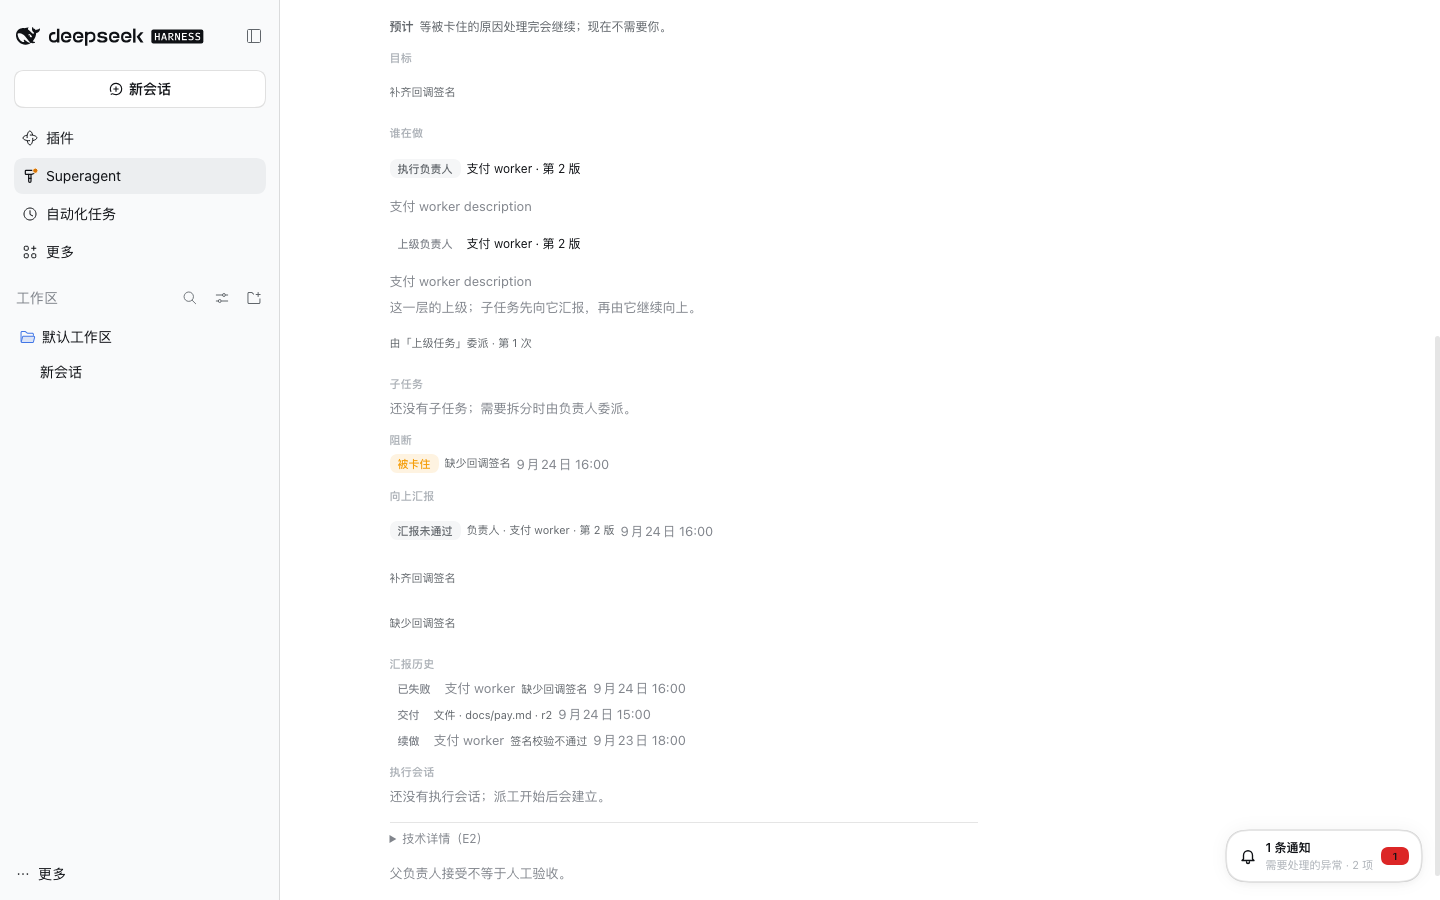
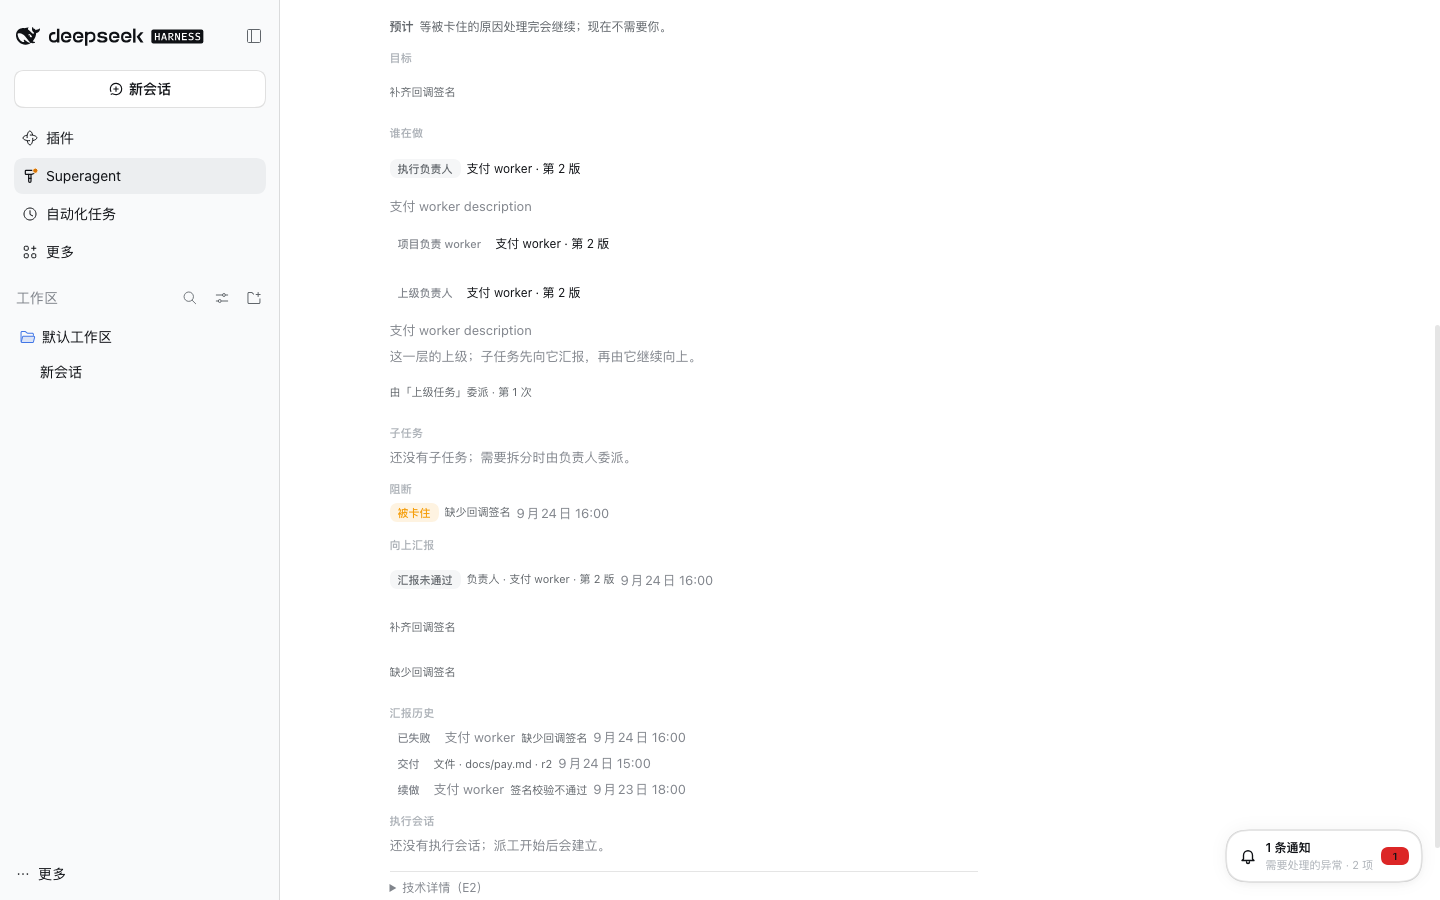
fix(panel): show the project owner in project task detail

diff --git a/packages/dsh/src/client/task-detail.tsx b/packages/dsh/src/client/task-detail.tsx
@@ -331,7 +331,7 @@ export function TaskDetail({ task, store, onBack, onOpenTicket, crumbs = [], bac
       {!v2 && focus.goal.decision && <p className="dt-task-report"><Tag tone="warning">{t('tasksDecision')}</Tag>
         <span>{focus.goal.decision.question ?? valueLabel(t, 'stage', focus.goal.decision.kind ?? '')}</span></p>}
     </div>
-    {v2 ? <Owner task={focus} t={t} profiles={profiles} /> : <div className="dt-task-detail-section">
+    {v2 ? <Owner task={focus} t={t} profiles={profiles} project={project} /> : <div className="dt-task-detail-section">
       <h4>{t('taskHierarchyOwner')}</h4>
       {focus.form === 'lightweight' ? <Hint>{t('tasksLightweightNote')}</Hint> : <>
         <p className="dt-task-owner"><Tag tone="neutral">{t('tasksRole.parentWorker')}</Tag>

diff --git a/packages/dsh/src/client/projects.tsx b/packages/dsh/src/client/projects.tsx
@@ -164,7 +164,7 @@ function ProjectList({ board, profiles, t, extraArchived, loadingArchived, onLoa
   const [expanded, setExpanded] = useState(false)
   const projects = board.projects ?? []
   const active = projects.filter(project => !isArchived(project))
-  const archivedProjects = [...projects.filter(isArchived), ...extraArchived]
+  const archivedProjects = [...projects.filter(isArchived), ...extraArchived.filter(isArchived)]
   const archivedCount = board.totals?.archivedProjects ?? archivedProjects.length
   const chooseArchived = (value: boolean) => {
     setArchived(value)

diff --git a/tests/panel-projects.spec.tsx b/tests/panel-projects.spec.tsx
@@ -134,6 +134,8 @@ it('drills from project to task to child with owners, statuses, expansion and br
   expect(crumbs.textContent).toContain('项目')
   expect(crumbs.textContent).toContain('接入网关')
   expect(crumbs.textContent).toContain('补齐回调签名')
+  expect(task.textContent).toContain(zh['projectsProjectOwner'])
+  expect(task.textContent).toContain('支付 worker · 第 2 版')
   expect(task.textContent).toContain(zh['taskHierarchyReportHistory'])
   expect(task.textContent).toContain('docs/pay.md')
   expect(task.textContent).toContain('缺少回调签名')
